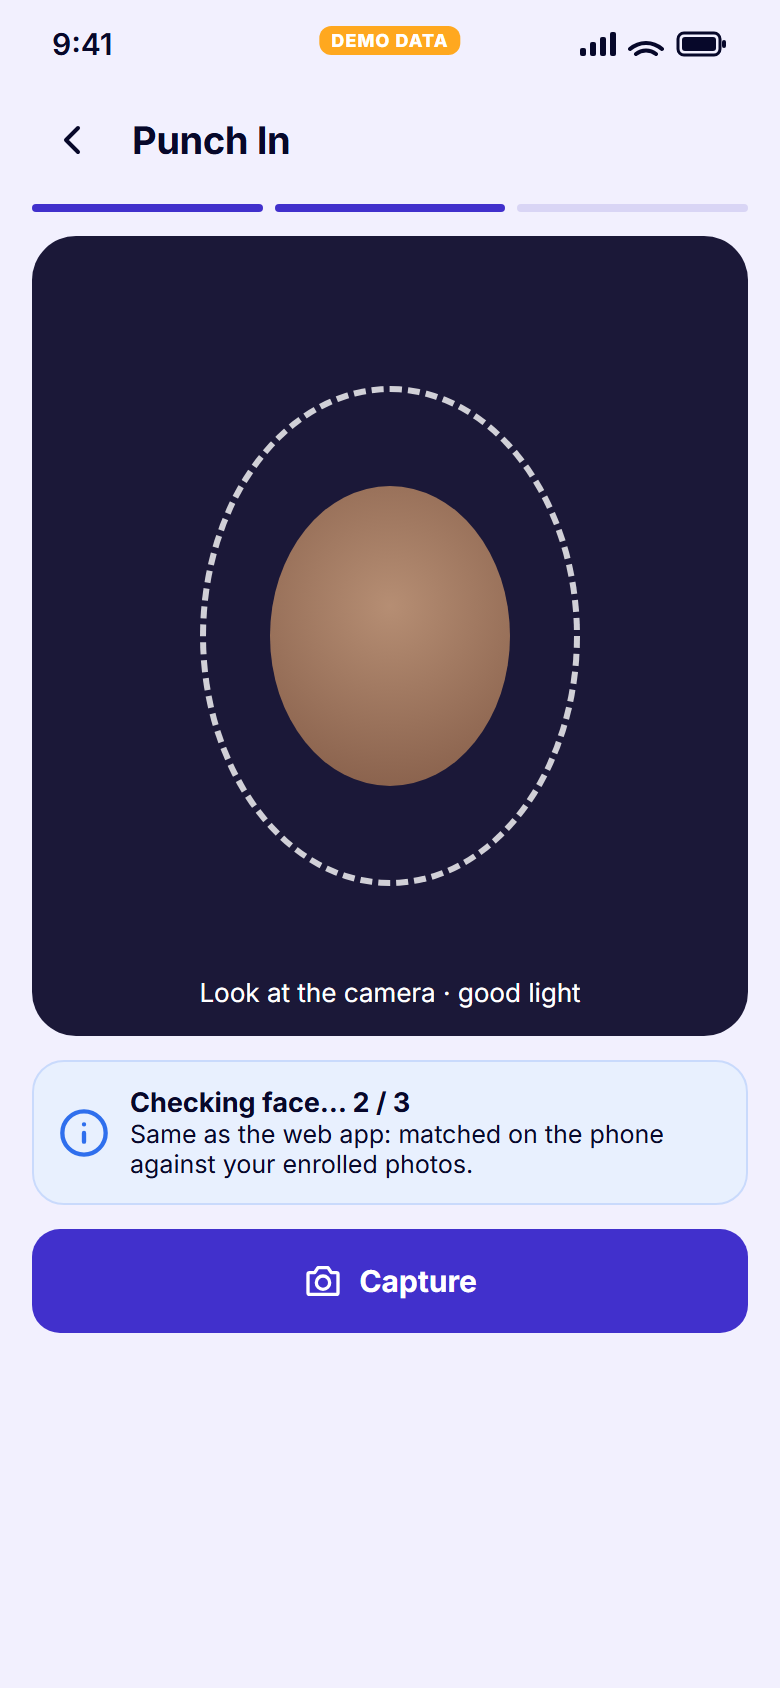
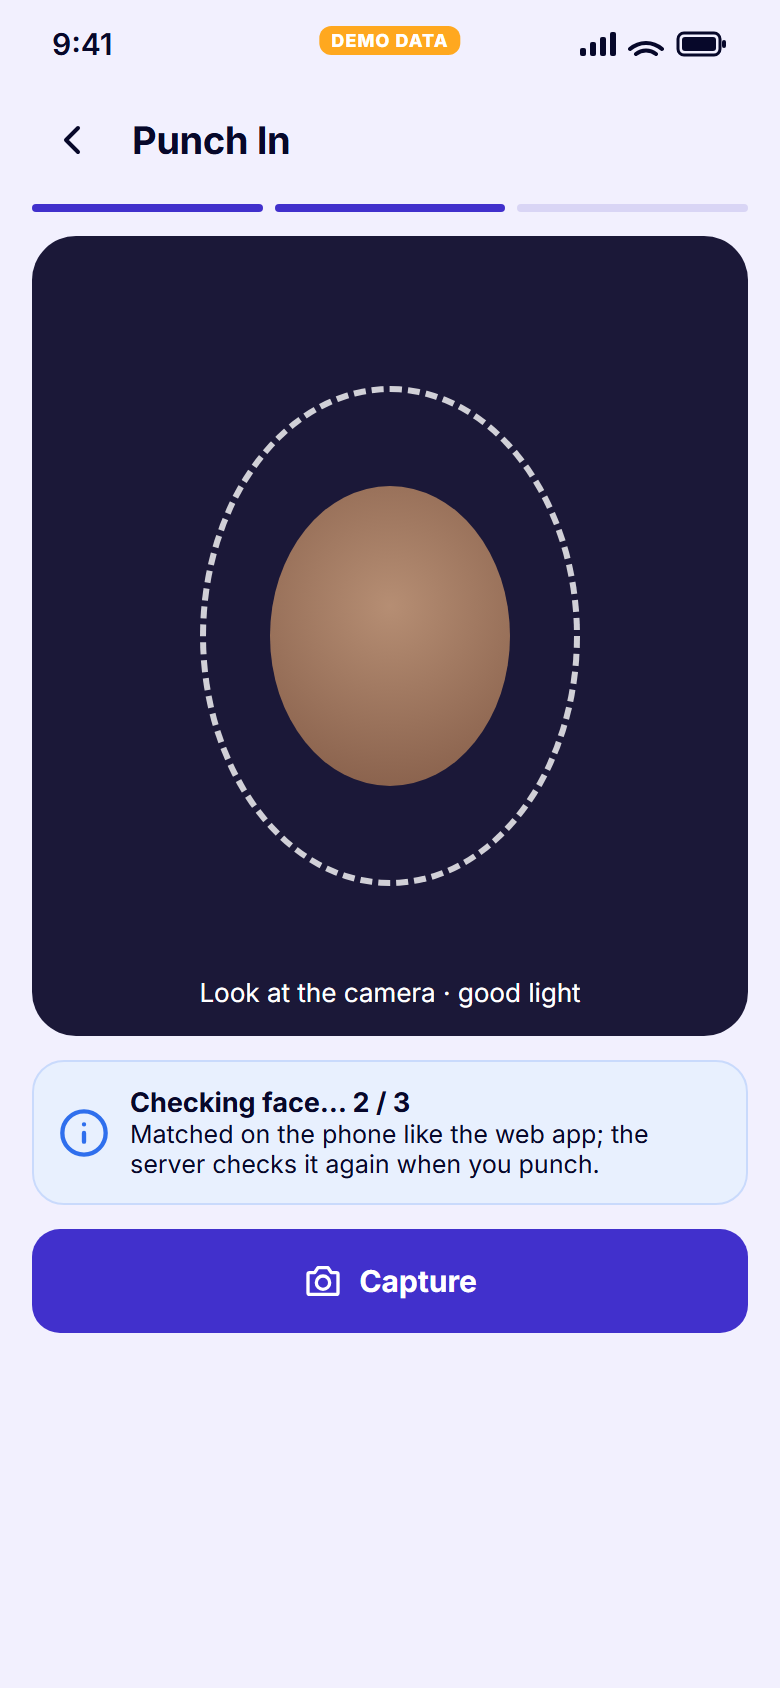
docs: D-037 server-side face verification on every punch (web + mobile)
- decision D-037 approved by the user; D-012 row corrected
- B-18 re-enabled: stored enrolled-photo descriptors, face-verify service
  with existing face-api (Node wasm), punch() uses server result, no match
  -> review; web punch gets the same check
- roadmap phase 1b + Spike A accuracy test (photos from the user later)
- EMP-005 / HR-005 design updated; docs 01/04/08 and audit section 8

Changed region(s): [[0.1538, 0.6469, 0.8308, 0.7085]]

diff --git a/design/prototypes/screens-auth-employee.js b/design/prototypes/screens-auth-employee.js
@@ -71,9 +71,9 @@
   R({ id: "EMP-004", cat: "02-common-employee", title: "GPS verification (weak GPS)", roles: SELF, perm: "hrms_attendance.create", api: [["none (device GPS); limit from attendance/me/today rules.gpsAccuracyMeters", "E"]],
     purpose: "Live accuracy until it reaches the company limit (existing rule; not changed). Tips for indoor factory floors.", actions: ["Try again", "Cancel"], nav: ["EMP-005"],
     render: () => C.frame(`${C.inner("Checking location")}${C.steps(1, 3)}<div class="card center"><div style="width:150px;height:150px;border-radius:50%;margin:6px auto 10px;border:10px solid #ffe0a8;display:grid;place-items:center"><div><b style="font-size:30px">± 85 m</b><div class="muted">need ≤ 50 m</div></div></div>${C.pill("GPS is weak", "warning")}<p class="muted">Searching… 18 s</p></div><div class="card"><b>Tips</b><p class="muted mb0">• Move near a door or window<br>• Step out of the metal-roof shed<br>• Turn on Wi-Fi (improves location)<br>• Turn off battery saver for this app</p></div>${C.btn("Try again", "primary", "refresh")}<a class="link">Still failing? Ask HR to correct your attendance</a>`) });
-  R({ id: "EMP-005", cat: "02-common-employee", title: "Punch – selfie", roles: SELF, perm: "hrms_attendance.create", api: [["GET /api/v1/attendance/face-photos/file/{photoId} (enrolled photos, existing)", "E"], ["Face match on the phone, same as the web (FacePunchCamera: threshold + frames from attendance/me/today rules) → facePhotoId sent with the punch", "E"]],
-    purpose: "Live selfie for every punch (existing rule). Face is matched on the phone exactly like the web app (enrolled photos, company threshold and frame count); the matched facePhotoId goes with the punch.", actions: ["Capture", "Retake"], nav: ["EMP-006"],
-    render: () => C.frame(`${C.inner("Punch In")}${C.steps(2, 3)}<div class="cam"><div class="face"></div><div class="oval"></div><div class="hint">Look at the camera · good light</div></div>${C.banner("info", "Checking face… 2 / 3", "Same as the web app: matched on the phone against your enrolled photos.")}${C.btn("Capture", "primary", "camera")}`) });
+  R({ id: "EMP-005", cat: "02-common-employee", title: "Punch – selfie", roles: SELF, perm: "hrms_attendance.create", api: [["GET /api/v1/attendance/face-photos/file/{photoId} (enrolled photos, existing)", "E"], ["Face match on the phone, same as the web (FacePunchCamera: threshold + frames from attendance/me/today rules) → facePhotoId sent with the punch", "E"], ["Server re-checks the selfie against enrolled photos on every punch (D-037, B-18)", "N"]],
+    purpose: "Live selfie for every punch (existing rule). Face is matched on the phone exactly like the web app (enrolled photos, company threshold and frame count); the matched facePhotoId goes with the punch, and the server re-checks the face (D-037); if the server does not match, the punch is recorded and sent for review.", actions: ["Capture", "Retake"], nav: ["EMP-006"],
+    render: () => C.frame(`${C.inner("Punch In")}${C.steps(2, 3)}<div class="cam"><div class="face"></div><div class="oval"></div><div class="hint">Look at the camera · good light</div></div>${C.banner("info", "Checking face… 2 / 3", "Matched on the phone like the web app; the server checks it again when you punch.")}${C.btn("Capture", "primary", "camera")}`) });
   R({ id: "EMP-006", cat: "02-common-employee", title: "Punch In confirmation", roles: SELF, perm: "hrms_attendance.create", api: PUNCH_API,
     purpose: "Last check before submit: selfie, time (server decides), accuracy, inside/outside estimate.", actions: ["Confirm Punch In", "Back"], nav: ["EMP-007", "EMP-009", "EMP-010"],
     render: () => C.frame(`${C.inner("Punch In")}${C.steps(3, 3)}<div class="card prof"><div class="avatar" style="border-radius:16px;width:70px;height:70px">RK</div><div class="who"><b>Ready to punch in</b><span>Selfie captured</span></div></div>${C.kv([["Time", "Now (server time)"], ["Place (estimate)", "Main Factory · ~23 m · inside"], ["GPS accuracy", "± 8 m (limit 50 m)"], ["Phone", "Verified"]])}${C.btn("Confirm Punch In", "success", "login")}<a class="link">Back</a>`) });

diff --git a/design/prototypes/screens-mgmt.js b/design/prototypes/screens-mgmt.js
@@ -84,7 +84,7 @@
     render: () => C.frame(`${C.inner("Leave Approvals", { sub: "6 pending" })}${[["Anita Devi · Casual leave", "10 Nov (full day) · balance 4"], ["Pooja Singh · Sick leave", "05–06 Nov · balance 2"]].map(([t, s]) => `<div class="card">${C.li({ ic: "calendar", tone: "info", title: t, sub: s, chev: false })}<div class="pair mb0"><div class="btn secondary mb0">Reject</div><div class="btn success mb0">Approve</div></div></div>`).join("")}`, mNav("Approvals", 11)) });
   R({ id: "HR-005", cat: "10-hr-manager", title: "Outside / flagged punch review", roles: HRR, perm: "hrms_attendance_outdoor.approve / reject", api: [["GET /api/v1/attendance/outdoor", "E"], ["POST /api/v1/attendance/outdoor (approve)", "E"], ["POST /api/v1/attendance/outdoor/{sessionId}/reject", "E"], ["risk reasons from hrms_attendance_punch_meta (planned mobile backend, docs/06 B-17)", "N"]],
     purpose: "Existing outdoor approval queue — also where SUSPICIOUS mobile punches land. Shows the risk reasons (new, B-17) so reviewers know why.", actions: ["Approve (→ REMOTE)", "Reject (times trimmed)", "View selfie / map"], nav: [],
-    render: () => C.frame(`${C.inner("Punch Review", { sub: "3 waiting" })}<div class="card">${C.li({ ic: "pin", tone: "warning", title: "Imran Ali · In 09:10", sub: "230 m from Main Factory · GPS ± 18 m", chev: false })}<div class="row" style="flex-wrap:wrap;gap:6px;margin:6px 0 10px">${C.pill("Outside office", "warning")}${C.pill("Mock location reported", "warning")}${C.pill("Device verified", "success")}</div><div class="row" style="margin-bottom:10px"><div class="avatar" style="border-radius:12px">IN</div><span class="muted">Selfie · tap to enlarge</span></div><div class="pair mb0"><div class="btn secondary mb0">Reject</div><div class="btn success mb0">Approve</div></div></div>${C.banner("info", "Signals are indicators, not proof", "Decide with the selfie and the employee's explanation.")}`, mNav("Approvals", 11)) });
+    render: () => C.frame(`${C.inner("Punch Review", { sub: "3 waiting" })}<div class="card">${C.li({ ic: "pin", tone: "warning", title: "Imran Ali · In 09:10", sub: "230 m from Main Factory · GPS ± 18 m", chev: false })}<div class="row" style="flex-wrap:wrap;gap:6px;margin:6px 0 10px">${C.pill("Outside office", "warning")}${C.pill("Mock location reported", "warning")}${C.pill("Face not matched (server)", "danger")}${C.pill("Device verified", "success")}</div><div class="row" style="margin-bottom:10px"><div class="avatar" style="border-radius:12px">IN</div><span class="muted">Selfie · tap to enlarge</span></div><div class="pair mb0"><div class="btn secondary mb0">Reject</div><div class="btn success mb0">Approve</div></div></div>${C.banner("info", "Signals are indicators, not proof", "Decide with the selfie and the employee's explanation.")}`, mNav("Approvals", 11)) });
 
   // ---------------- 11 DISPATCH ----------------
   const DR = ["DISPATCH_MANAGER", "WAREHOUSE_USER", "MANAGEMENT", "SUPER_ADMIN"];

diff --git a/docs/12_DECISION_LOG.md b/docs/12_DECISION_LOG.md
@@ -17,7 +17,8 @@
 | D-009 | Foreground location only; never background | PROPOSED | privacy, store policy | 04 §4 |
 | D-010 | Idempotent punch (`clientPunchId`), lookup before challenge check; metadata in new `hrms_attendance_punch_meta` | PROPOSED | safe retries; attendance tables untouched | 04 §8, 06 §4 |
 | D-011 | Server-side risk engine: reasons with strengths (INFO/WEAK/STRONG/CRITICAL), levels NORMAL/SUSPICIOUS/HIGH_RISK by corroboration rules; SUSPICIOUS → existing outdoor review; HIGH_RISK → review during pilot, block only if approved | PROPOSED | explainable, configurable; no single weak signal decides | 08 §6 |
-| D-012 | Face verification on mobile | **OPEN** (Spike A, Q-01) | existing model trusts client (SW-1); not mandatory without approval | 04 §7, 08 §7 |
+| D-012 | Face check on the phone works **the same as the web app**: on-device match against enrolled photos (company threshold + frames), `facePhotoId` sent with the punch | **APPROVED 2026-11-03 (user)**; extended by D-037 | user choice; gives instant feedback | 04 §7, 08 §7 |
+| D-037 | **Server-side face verification** on every punch (web **and** mobile): server computes the selfie's face descriptor and compares it with the employee's stored enrolled-photo descriptors using the ERP's existing `@vladmandic/face-api` (Node wasm backend). Server decides; the phone/browser match stays only for instant feedback. **No match → punch recorded but sent to review** (never silently accepted, not blocked). Accuracy test with 3–5 consenting volunteers before go-live | **APPROVED 2026-11-03 (user)** — test photos to be provided by the user later | closes SW-1; feasibility shown in Spike A (Node 24 + wasm, ~0.2 s model load, 0.1–0.5 s detection, ~365 MB RAM) | 06 B-18, spikes/face-verification.md |
 | D-013 | API types hand-written in `src/api/types.ts`; contract fixtures from server tests | PROPOSED | app can't import server code | 02 §2 |
 | D-014 | Tokens + installation id only in SecureStore (this-device-only) | PROPOSED | Keychain/Keystore | 03 §3 |
 | D-015 | No map in v1 | PROPOSED | scope, keys/tiles policy | 07 |
@@ -78,6 +79,7 @@
 | Date | Change | By |
 |---|---|---|
 | 2026-11-03 | Initial D-001…D-023, Q-01…Q-15 | Claude Code |
+| 2026-11-03 | D-037 APPROVED: server-side face verification on every punch (web + mobile), no match → review; accuracy test with volunteer photos (to be provided) | user / Claude Code |
 | 2026-11-03 | User: voice only where backend has it (D-D10 narrowed); face check same as web (D-012 APPROVED, Q-01 answered); other gaps resolved with existing APIs (design v1.3) | user / Claude Code |
 | 2026-11-03 | Design phase (role-based UI/UX brief): D-D01, D-D02 proposed; D-D03…D-D09 open; scope widened from "login + attendance" to full-app **design** (implementation scope still per approval) | Claude Code |
 | 2026-11-03 | D-036 APPROVED: app ID in.indradhar.fashionerp | user |

diff --git a/docs/11_IMPLEMENTATION_ROADMAP.md b/docs/11_IMPLEMENTATION_ROADMAP.md
@@ -7,6 +7,7 @@ Every phase ends at a **user review gate**. The next phase starts only after the
 > | New phase | Content | Detailed tasks (this document) |
 > |---|---|---|
 > | **0 Design & feasibility** | ERP audit, screen inventory, permission/API mapping, design system, mockups, clickable prototype, spikes A/B/C, approvals | Phase 0 below + `design/` |
+> | **1b Server-side face verification (D-037)** | In `fashion-erp`: face descriptors for enrolled photos (additive), face-verify service (existing face-api, Node wasm), `punch()` uses the server result (no match → review), same check on web punch; tests; accuracy threshold from Spike A. Must be live **before** mobile punching goes to employees | B-18 in `06` |
 > | **1 Backend authentication** | Mobile bearer adapter, tokens, refresh rotation, device registration, logout/revocation, `GET /me` with permission keys (gap G-01) | Phase 1 below |
 > | **2 Mobile foundation** | Expo project, navigation, theme + shared components from the approved design system, API client, secure storage, errors, logging | Phase 2 below |
 > | **3 Common employee features** | Login, profile, attendance (punch flow incl. GPS/integrity/risk), reports, expense request + status, notifications | old Phases 3–6 below |
@@ -38,7 +39,7 @@ flowchart LR
 
 **Tasks**
 1. User review of docs 00–14; answers to blocking questions (`12`): Q-01, Q-02, Q-03, Q-04, Q-07, Q-08, Q-09, Q-10, Q-13, Q-16, Q-17, Q-18.
-2. **Spike A — face verification:** server-side match feasibility on our Node server; on-device options; liveness vendors (cost/privacy). Report `docs/spikes/face-verification.md`.
+2. **Spike A — face verification:** server-side match feasibility on our Node server (✅ speed/memory done). **Remaining (D-037): accuracy test** with 3–5 consenting volunteers (3 enrolment photos + 4–5 selfies each, indoor / outdoor / factory light) — measure false rejects and false accepts at the company threshold; photos kept only on the test machine and deleted after. Report `docs/spikes/face-verification.md`.
 3. **Spike B — integrity & device signals:** Play Integrity (standard request, server decode, quota), App Attest (register + assertion, server verification), iOS `isSimulatedBySoftware`, Android `Settings.Global` dev/ADB/wireless-ADB readability across Android versions, choose community wrapper vs custom Expo Module. Throwaway dev build on real devices. Report `docs/spikes/integrity.md`.
 4. **Spike C — factory GPS field test** (`09` §5) including the 200–225 m floor issue; native vs browser. Report `docs/spikes/factory-gps.md`.
 5. Confirm accounts/owners (Expo, Play Console, Google Cloud, Apple), bundle id and Team ID.

diff --git a/docs/06_DATABASE_AND_BACKEND_CHANGES.md b/docs/06_DATABASE_AND_BACKEND_CHANGES.md
@@ -23,7 +23,7 @@ Every item needs approval. All schema changes are **additive** (new tables/enums
 | B-15 | env vars (`10` §2) | configuration | 1 |
 | B-16 | ~~root tooling excludes~~ — **dropped 2026-11-03**: app moved to its own repository (D-002 APPROVED), nothing to exclude in `fashion-erp` | — | — |
 | B-17 | web Outdoor screen shows risk reasons for mobile punches (read from B-06) | reviewers must see *why* a punch was flagged | 6 |
-| B-18 | ~~not needed — D-012: face check same as the web~~ server-side face verification (+ liveness) | SW-1 | 5 |
+| B-18 | **Server-side face verification (D-037, APPROVED):** (a) new additive table/columns to store each enrolled photo's face descriptor, computed once on enrolment (and back-filled for existing photos); (b) a face-verify service using the existing `@vladmandic/face-api` Node wasm build + `sharp` to decode the selfie; (c) `punch()` gets the server match result — no match / no face → session recorded with review status (same review queue as outside punches) and reason `FACE_NOT_MATCHED`; (d) web punch gets the same check; (e) new root dependencies `@tensorflow/tfjs@4.22.0` + `@tensorflow/tfjs-backend-wasm@4.22.0` (approval with D-037). Liveness not included | SW-1 (client-trusted face match) | before mobile go-live; accuracy test first |
 | B-19 | `punch()` gets one optional trailing `options` param: `{ meta?, forceReview? }`, used inside its existing `$transaction`; web calls unchanged | write metadata atomically; route SUSPICIOUS punches to review | 5 |
 | B-20 | (optional) web Admin: list/revoke a user's mobile devices; approve pending devices | HR device control | 7 |
 | B-21 | (conditional) `AttendanceSettings.requireFaceOnMobile` | only if Q-01 picks "selfie-only on mobile" | 5 |

diff --git a/design/screen-inventory/ERP_AUDIT_FOR_DESIGN.md b/design/screen-inventory/ERP_AUDIT_FOR_DESIGN.md
@@ -95,7 +95,7 @@ Additional gaps: G-10 no push notifications (needs a push-token table + sender);
 | Gap | Resolution | Backend change? |
 |---|---|---|
 | G-14 voice notes on production entries, attendance remark, leave, corrections, clarification, approval remarks, hand-back | **Dropped.** Voice note kept only where the ERP already stores it (PAYMENT_REQUEST, EXPENSE, EXPENSE_PAYMENT, EMPLOYEE_ADVANCE(_SETTLEMENT), INTERNAL_TRANSFER, PAYMENT, SUPPLIER_CREDIT_NOTE). Other remark fields are text-only. Screens with voice: EMP-016, EMP-018, ACC-003, SHR-005 | No |
-| Face check (Q-01) | **Same as the web:** match on the phone against enrolled photos (company `faceMatchThreshold`, `faceMatchFrames`), send `facePhotoId`; server keeps its existing ownership check. Known weakness SW-1 accepted by the user; selfie review by managers remains | No |
+| Face check (Q-01) | **Same as the web:** match on the phone against enrolled photos (company `faceMatchThreshold`, `faceMatchFrames`), send `facePhotoId`; **plus server-side face match on every punch (D-037)** — no match → review. Closes SW-1 | Yes — B-18 (approved) |
 | G-03 numeric KPIs | Show report values **as the report returns them** (formatted strings) — no parsing | No |
 | G-04 pending approvals / alerts aggregation | Built in the app: one existing list/report call per module the user may see; counts from `meta.totalCount` | No |
 | G-08 company / team counts | `employees?pageSize=1`, `users`, `customers?pageSize=1` (meta.totalCount); team size from `attendance/team-day`; headcount by department from report `hr/department-wise-employees` | No |

diff --git a/docs/14_MOBILE_PROJECT_STATUS.md b/docs/14_MOBILE_PROJECT_STATUS.md
@@ -54,6 +54,11 @@ SW-1 face match client-trusted · SW-2 client-reported GPS/accuracy · SW-3 in-m
 
 ## Handoff log (newest first)
 
+### Handoff — 2026-11-03 — Claude Code — D-037 server-side face verification added to plan
+**User decisions:** fix SW-1 with a server-side face match on every punch (web + mobile) — APPROVED; user will provide 3–5 volunteers' photos later for the accuracy test.
+**Done:** D-037 in decision log (D-012 row corrected); B-18 re-enabled with details in `06`; roadmap: new phase 1b + Spike A accuracy test task; docs 01/04/08 and audit §8 updated; EMP-005 and HR-005 designs updated ("server re-checks", "Face not matched (server)") and re-exported.
+**Waiting on the user:** volunteer photos (3 enrolment + 4–5 selfies each, different light) → accuracy test → threshold → phase 1b.
+
 ### Handoff — 2026-11-03 — Claude Code — CR-002 (design v1.3)
 **User decisions:** voice note only where the ERP backend already supports it; face check same as the web; "decide the rest".
 **Done:** voice removed from 9 screens (kept on EMP-016, EMP-018, ACC-003, SHR-005); EMP-005 face step = web method (D-012 APPROVED, Q-01 answered, B-18 not needed, spike A superseded); all other gaps redesigned onto existing APIs/reports (`design/screen-inventory/ERP_AUDIT_FOR_DESIGN.md` §8) → **0 screens with backend gaps**; B-22 dropped; docs 01/04/05/06/08/12 updated; 19 screens + responsive re-exported.

diff --git a/docs/01_EXISTING_ERP_AUDIT.md b/docs/01_EXISTING_ERP_AUDIT.md
@@ -184,7 +184,7 @@ CSP (incl. OSM tiles), `Permissions-Policy: camera=(self), microphone=(self), ge
 
 | Id | Weakness | Where | Impact on mobile | Handling |
 |---|---|---|---|---|
-| SW-1 | Face matching runs only in the browser; server trusts the client's `facePhotoId` | `attendance-punch.service.ts:41-46`, `FacePunchCamera.tsx` | copying this model to mobile gives no real face assurance | do not copy blindly; decision Q-01 / D-012 |
+| SW-1 | Face matching runs only in the browser; server trusts the client's `facePhotoId` | `attendance-punch.service.ts:41-46`, `FacePunchCamera.tsx` | copying this model to mobile gives no real face assurance | **fix approved (D-037):** server-side face match on every punch, web + mobile; no match → review |
 | SW-2 | Coordinates and `accuracy` are client-reported; a modified client can send any point with accuracy 5 m | `punch/route.ts`, `punch()` `:34` | GPS alone can't prove presence | integrity attestation + server signals + risk engine (`08` §4–6) |
 | SW-3 | Login lockout is in-memory per process; resets on restart; not shared across instances | `rateLimiter.ts` | weaker brute-force protection | add per-IP limit (B-11); Redis limiter if multi-instance (Q-09) |
 | SW-4 | Punch response returns raw session incl. selfie storage keys | `punch()` return | info exposure | mobile route returns `toMySessionView()` shape |

diff --git a/docs/spikes/face-verification.md b/docs/spikes/face-verification.md
@@ -38,3 +38,7 @@ User decision: may we run the accuracy test with 3–5 consenting volunteers' ph
 ## Superseded (2026-11-03)
 
 The user decided face check works **the same as the web app** (D-012 APPROVED): match on the phone, send `facePhotoId`, existing server check. Server-side matching is not needed; the accuracy test with volunteer photos is no longer required. Remaining Phase 0 item for face: confirm the on-device approach for React Native (run the same face-api models in the app, e.g. via a WebView or a TensorFlow.js/React Native runtime) — a small spike in Phase 2.
+
+## Update (2026-11-03, later) — D-037 approved
+
+The user approved **server-side face verification on every punch** (web + mobile) in addition to the phone/browser match. Server-side matching is therefore needed again, and the **accuracy test is required** before go-live. The user will provide photos of 3–5 consenting volunteers later (3 enrolment photos + 4–5 selfies each, different light). Test plan: compute descriptors on the server with the same models as the web, compare same-person and different-person pairs, report false-reject and false-accept rates at threshold 0.45 (company default) and nearby values, and the time per punch on this machine. Photos stay on the test machine and are deleted after the test.

diff --git a/docs/04_ATTENDANCE_DESIGN.md b/docs/04_ATTENDANCE_DESIGN.md
@@ -106,7 +106,7 @@ Recommendation: a first; then c if the field test shows genuine employees still 
 
 ## 7. Face verification
 
-> **Decided 2026-11-03 (D-012, user): same as the web app.** On-device match against the employee's enrolled photos with the company `faceMatchThreshold` / `faceMatchFrames`, then `facePhotoId` is sent with the punch and the server keeps its existing ownership check. No server-side matching, no new setting. Known weakness SW-1 accepted; managers can still review selfies. The options below are kept for history.
+> **Decided 2026-11-03 (D-012 + D-037, user): phone matches like the web for instant feedback, and the server re-checks every punch** (server-side face match with the existing face-api library; no match → punch recorded and sent to review). On-device match against the employee's enrolled photos with the company `faceMatchThreshold` / `faceMatchFrames`, then `facePhotoId` is sent with the punch and the server keeps its existing ownership check. No server-side matching, no new setting. SW-1 is closed by the server re-check (D-037). The options below are kept for history.
 
 Existing web model: browser match → `facePhotoId` sent → server only checks ownership (SW-1). Server rejects punches without `facePhotoId` when `requireFace = true` (the default).
 

diff --git a/design/screens/02-common-employee/EMP-005-punch-selfie/screen-spec.md b/design/screens/02-common-employee/EMP-005-punch-selfie/screen-spec.md
@@ -10,7 +10,7 @@
 | Required permission | `hrms_attendance.create` |
 
 ## Purpose
-Live selfie for every punch (existing rule). Face is matched on the phone exactly like the web app (enrolled photos, company threshold and frame count); the matched facePhotoId goes with the punch.
+Live selfie for every punch (existing rule). Face is matched on the phone exactly like the web app (enrolled photos, company threshold and frame count); the matched facePhotoId goes with the punch, and the server re-checks the face (D-037); if the server does not match, the punch is recorded and sent for review.
 
 ## User types / ERP roles
 - MERCHANDISER
@@ -30,6 +30,7 @@ Uses the shared `AppHeader` (home) or inner header (back + title); bottom naviga
 |---|---|
 | `GET /api/v1/attendance/face-photos/file/{photoId} (enrolled photos, existing)` | EXISTING (via mobile auth adapter) |
 | `Face match on the phone, same as the web (FacePunchCamera: threshold + frames from attendance/me/today rules) → facePhotoId sent with the punch` | EXISTING (via mobile auth adapter) |
+| `Server re-checks the selfie against enrolled photos on every punch (D-037, B-18)` | NEW thin mobile route (designed in docs/05) |
 
 ## Available actions
 - Capture

diff --git a/design/screen-inventory/API_SCREEN_MAPPING.md b/design/screen-inventory/API_SCREEN_MAPPING.md
@@ -28,6 +28,7 @@ Kinds: **E** existing ERP route reused through the mobile bearer adapter · **N*
 | EMP-004 | `none (device GPS); limit from attendance/me/today rules.gpsAccuracyMeters` | E |
 | EMP-005 | `GET /api/v1/attendance/face-photos/file/{photoId} (enrolled photos, existing)` | E |
 | EMP-005 | `Face match on the phone, same as the web (FacePunchCamera: threshold + frames from attendance/me/today rules) → facePhotoId sent with the punch` | E |
+| EMP-005 | `Server re-checks the selfie against enrolled photos on every punch (D-037, B-18)` | N |
 | EMP-006 | `POST /api/mobile/v1/attendance/punch-challenge` | N |
 | EMP-006 | `POST /api/mobile/v1/attendance/punch (calls existing punch())` | N |
 | EMP-007 | `POST /api/mobile/v1/attendance/punch-challenge` | N |
